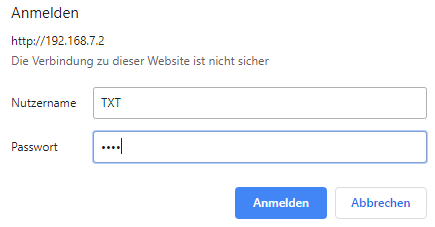
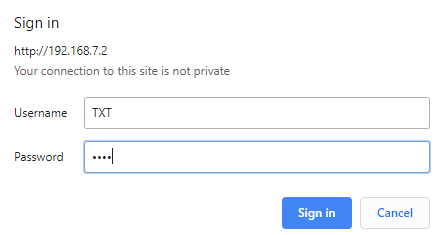
added screenshots

diff --git a/doc/WEBServer_de.md b/doc/WEBServer_de.md
@@ -23,7 +23,7 @@ Die Seite des TXT Controllers ist durch ein Passwort gesichert.
 
 Folgende Abfrage des Passworts wird im WEB Browser angezeigt:
 
-![WEBBrowser Pass](WEBBrowser_Pass.png)
+![WEBBrowser Pass](WEBBrowser_Pass_de.png)
  
 Nach Eingabe des Passworts sollte jetzt die Seite des TXT Controllers sichtbar sein.
 
@@ -31,9 +31,12 @@ Nach Eingabe des Passworts sollte jetzt die Seite des TXT Controllers sichtbar s
 
 Um C-Programme auf den TXT Controller zu kopieren, wechseln Sie in das Verzeichnis “C-Program”, indem Sie dieses mit der Maus anklicken. In diesem Verzeichnis werden C-Programme auf dem TXT Controller gespeichert.
 
-Dateien können über das Symbol Papierkorb gelöscht oder über das Symbol (+) hinzugefügt werden.
+Dateien können über das Symbol Papierkorb gelöscht oder über das Symbol **+** hinzugefügt werden.
 
-Wenn Sie auf (+) klicken, öffnet sich ein Dialogfenster, in dem Sie mit “Upload files” Dateien auf dem Computer auswählen und mit “Add Files” hinzufügen können. Wenn eine oder mehrere Dateien ausgewählt wurden, werden diese mit "Finish" auf den TXT Controller hochgeladen. 
+Wenn Sie auf **+** klicken, öffnet sich ein Dialogfenster, in dem Sie mit “Upload files” Dateien auf dem Computer auswählen und mit “Add Files” hinzufügen können. Wenn eine oder mehrere Dateien ausgewählt wurden, werden diese mit "Finish" auf den TXT Controller hochgeladen. 
+
+
+![WEBBrowser +](WEBBrowser_p.png) ![WEBBrowser Add](WEBBrowser_Add.png) ![WEBBrowser Upload](WEBBrowser_Upload.png) ![WEBBrowser Finish](WEBBrowser_Finish.png)
 
 ## C-Programme - Lernfabrik 4.0
 Aktuelle C-Programme der Lernfabrik 4.0 finden Sie auf [GitHub](https://github.com/fischertechnik/txt_training_factory/tree/master/bin). Speichern Sie die Programme auf dem Computer und laden Sie die entsprechenden C-Programme wie oben bereits beschrieben auf den jeweiligen TXT Controller herunter. Dabei wird pro TXT Controller in der Lernfabrik 4.0 eine eigene WEB Seite geöffnet. Die Cloud-Hauptanwendung wird in den Ordner "Cloud", die restlichen C-Programme werden in den Ordner "C-Program" kopiert.

diff --git a/doc/WEBServer.md b/doc/WEBServer.md
@@ -35,6 +35,8 @@ Files can be deleted using the Recycle Bin icon or added via the **+** icon.
 
 If you click on **+**, a dialog box opens in which you can select files on the computer with "Upload files" and add them with "Add Files". If one or more files have been selected, they are uploaded to the TXT Controller with "Finish".
 
+![WEBBrowser +](WEBBrowser_p.png) ![WEBBrowser Add](WEBBrowser_Add.png) ![WEBBrowser Upload](WEBBrowser_Upload.png) ![WEBBrowser Finish](WEBBrowser_Finish.png)
+
 ## C Programs - Training Factory Industry 4.0
 Current TXT Training Factory Industry 4.0 C programs can be found on [GitHub](https://github.com/fischertechnik/txt_training_factory/tree/master/bin). Save the programs on the computer and download the appropriate C programs to the respective TXT controller as described above. Each TXT controller in TXT Training Factory Industry 4.0 opens its own WEB page. The cloud main application is copied to the "Cloud" folder, the rest of the C programs are copied to the "C-Program" folder.
 
